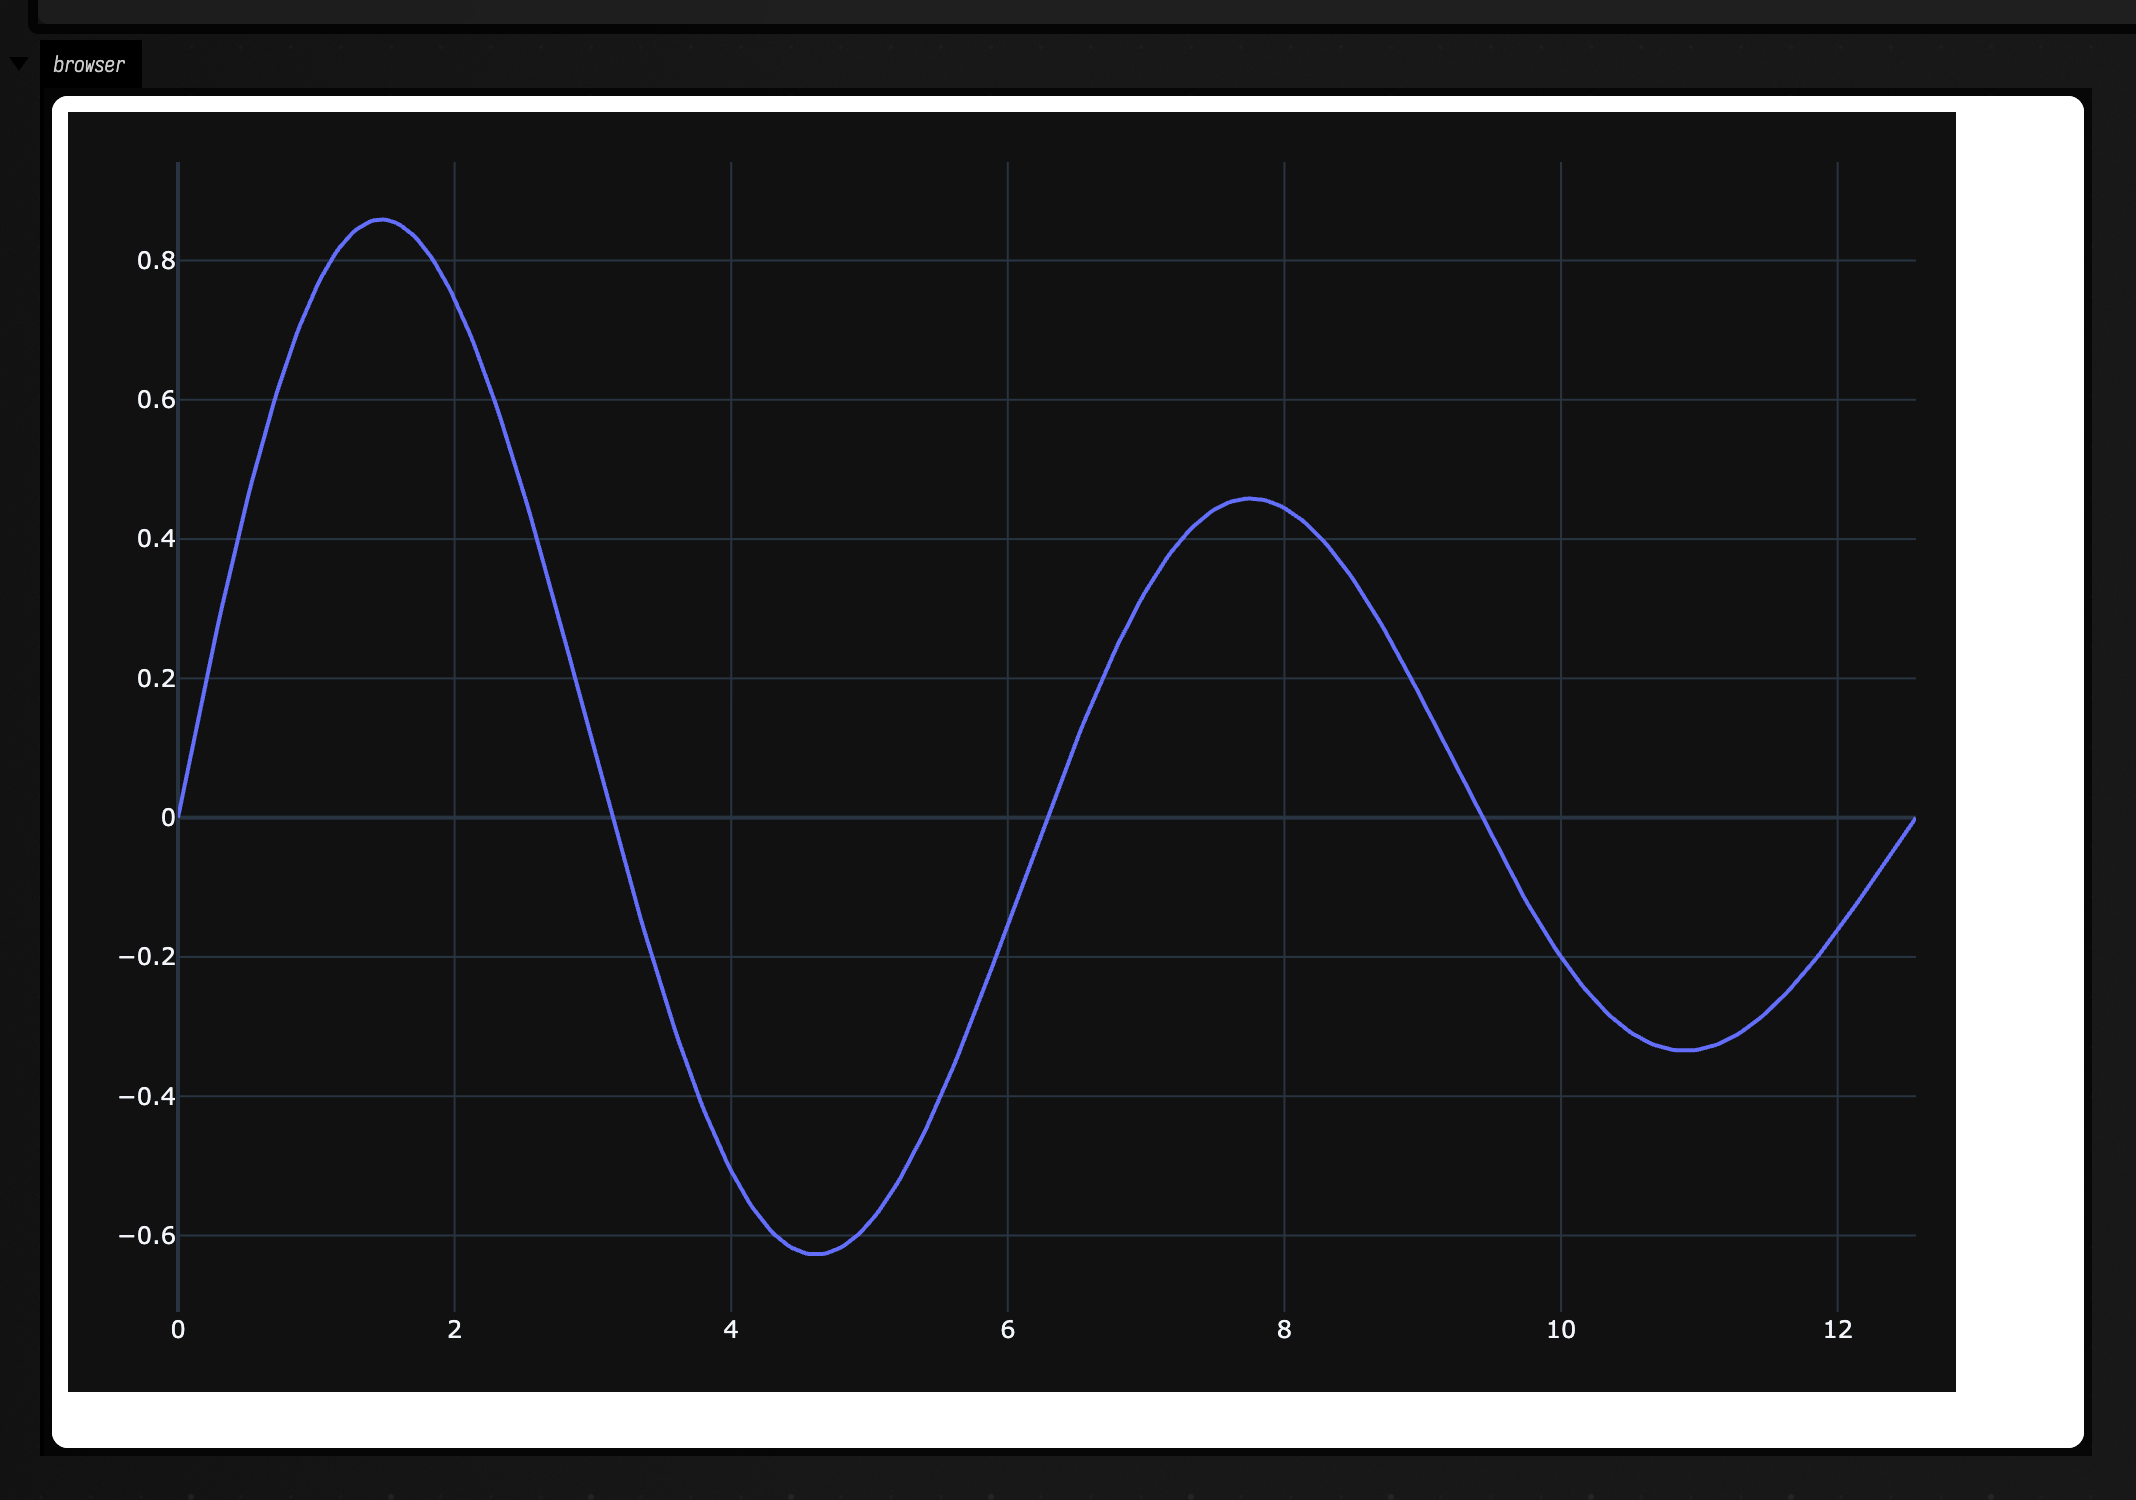
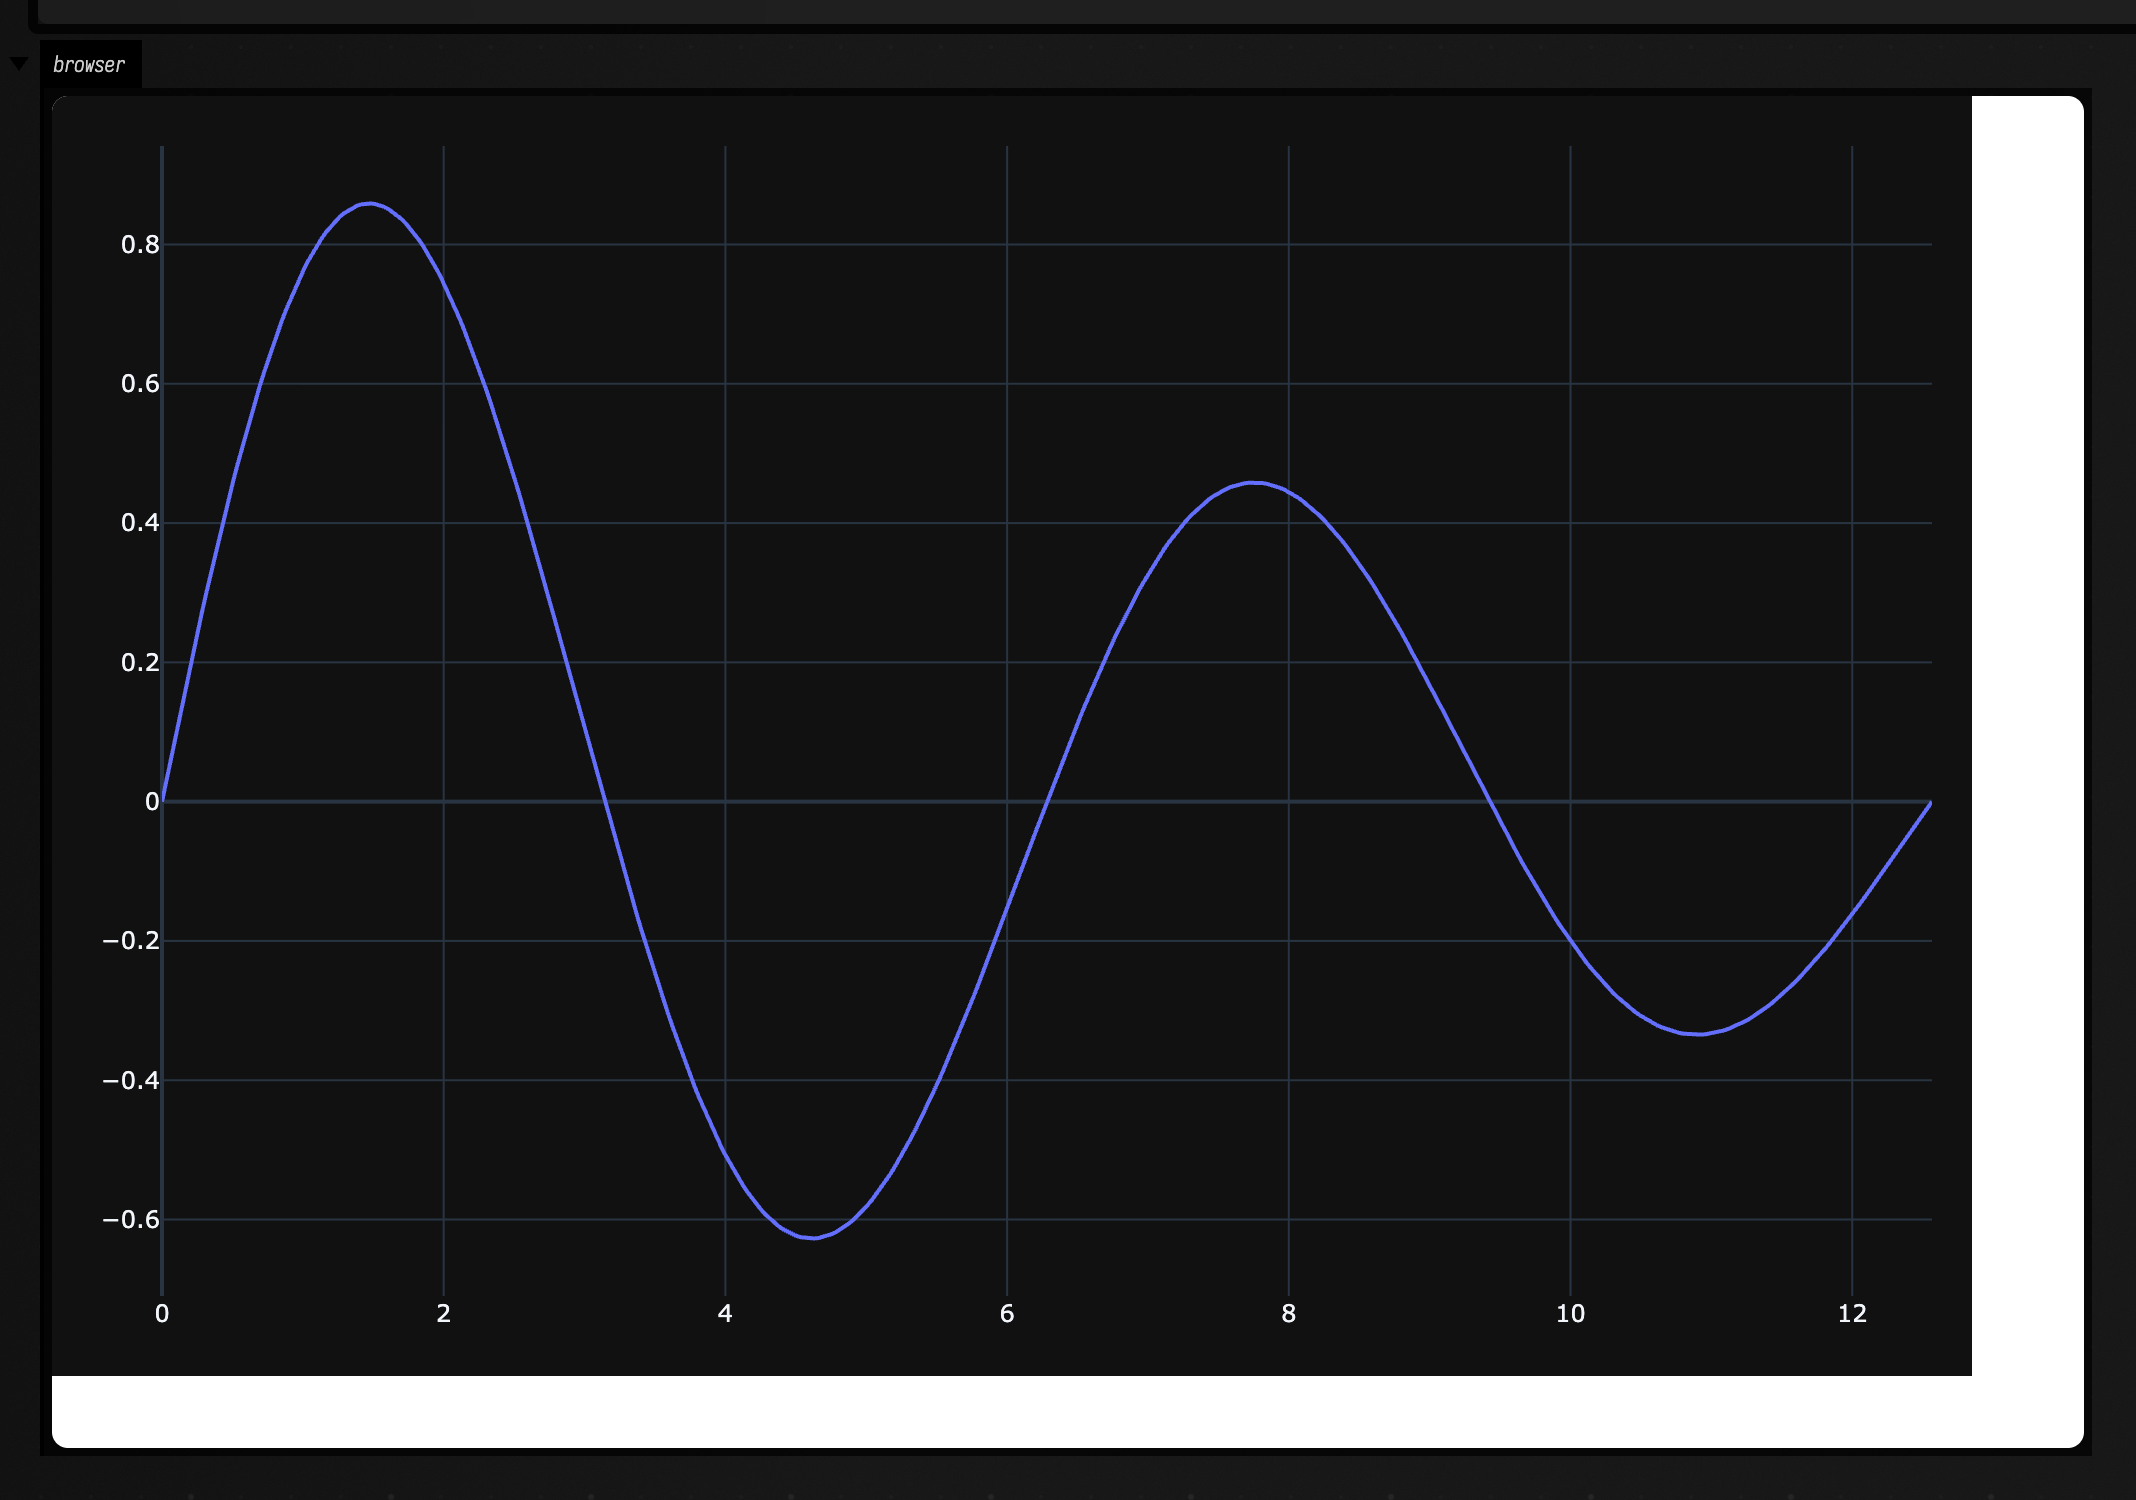
fix(python): the embed's white surround had two sources, and a third that is not ours
Follow-up to d6bd55251, which changed one background and could not be verified
because JEP would not resolve. Both of those are now settled.

JEP was always here. `build/docs-python-venv` carries a complete jep 4.3.1,
libjep.jnilib included; the runner just never finds it on its own, because
`jep_library_path` searches FIELD_PYTHON_EXECUTABLE, FIELD_PYTHON_VENV,
VIRTUAL_ENV, CONDA_PREFIX, ~/.afield/python.properties and PATH -- and that venv
is in none of them. Point FIELD_PYTHON_EXECUTABLE at it and the capture runs:

  FIELD_PYTHON_EXECUTABLE=$PWD/build/docs-python-venv/bin/python3 \
    uv run --group docs python tools/build_zensical_docs.py --page python

Two real sources of white, both fixed and both verified in pixels:

1. The embedded document's own body. plotly hands us a full HTML page and
   `plotly_dark` colours the figure's paper, not the page around it, so the page
   was white inside the frame. `_FIELD_EMBED_RESET` neutralises html/body only.
2. `field.css`'s `.afield-embed-frame` carried its own `background: #fff` -- a
   SECOND definition of the same colour, while EMBED_IFRAME_STYLE's comment
   claimed to be "the single definition". That claim is corrected too.

A third remains and it is NOT this iframe, which is worth recording so nobody
re-runs the experiment: a white band to the right of and below the figure
survives all of the above. I set the inline background to an opaque #111318,
[…]

diff --git a/src/jvmMain/kotlin/afield/python/PythonInterface.kt b/src/jvmMain/kotlin/afield/python/PythonInterface.kt
@@ -1066,11 +1066,28 @@ def _field_embed_show(box, iframe_html):
     from afield.python import PythonInterface
     PythonInterface.hasHadOutput = True
 
-# Both axes are in px, deliberately not "100%". PythonInterface.EMBED_IFRAME_STYLE is the single
-# definition and carries the reason; a test holds it to pixels.
+# Both axes are in px, deliberately not "100%". PythonInterface.EMBED_IFRAME_STYLE carries the
+# reason; a test holds it to pixels. It is NOT the only place the frame is styled -- field.css's
+# `.afield-embed-frame` is the other half, and the background has to agree in both.
 _FIELD_IFRAME_STYLE = "${EMBED_IFRAME_STYLE}"
 
+# The embedded document paints its own background, and a full plotly/bokeh page defaults to a
+# white body -- which lands as a bright slab inside a dark box no matter what the IFRAME is set to.
+# `plotly_dark` colours the figure's paper, not the page around it. So neutralise the page: only the
+# backdrop, so anything the document actually draws still wins.
+#
+# The trade is real and one-directional: a document that assumes a white page and draws dark text on
+# it (a folium legend, a light-theme bokeh toolbar) now draws that dark text over Field's dark box.
+# Pass `template="plotly_dark"` or the equivalent, as this page's example does.
+_FIELD_EMBED_RESET = "<style>html,body{background:transparent !important;margin:0;padding:0;}</style>"
+
 def _field_embed_document(box, full_html):
+    lowered = full_html.lower()
+    head = lowered.find("<head>")
+    if head >= 0:
+        full_html = full_html[:head + 6] + _FIELD_EMBED_RESET + full_html[head + 6:]
+    else:
+        full_html = _FIELD_EMBED_RESET + full_html
     srcdoc = full_html.replace("&", "&amp;").replace('"', "&quot;")
     iframe = '<iframe class="afield-embed-frame" style="' + _FIELD_IFRAME_STYLE + '" srcdoc="' + srcdoc + '"></iframe>'
     _field_embed_show(box, iframe)

diff --git a/src/commonMain/resources/field.css b/src/commonMain/resources/field.css
@@ -2030,13 +2030,18 @@ body {
     tab-size: 4;
 }
 
-/* Pages a library would open in an external browser (plotly fig.show(), ...) embedded in-place. */
+/* Pages a library would open in an external browser (plotly fig.show(), ...) embedded in-place.
+
+   `background` is transparent, and it has to be set in BOTH places: the iframe's inline style comes
+   from PythonInterface.EMBED_IFRAME_STYLE and this class is the other half. A white backdrop here is
+   a bright slab around a dark figure, because the embedded document only paints the area its own
+   content covers. */
 .afield-embed-frame {
     display: block;
     width: 100%;
     border: none;
     border-radius: 8px;
-    background: #fff;
+    background: transparent;
 }
 
 /* Field-authored (dark-theme) Plotly plots render straight into the output DOM, so
